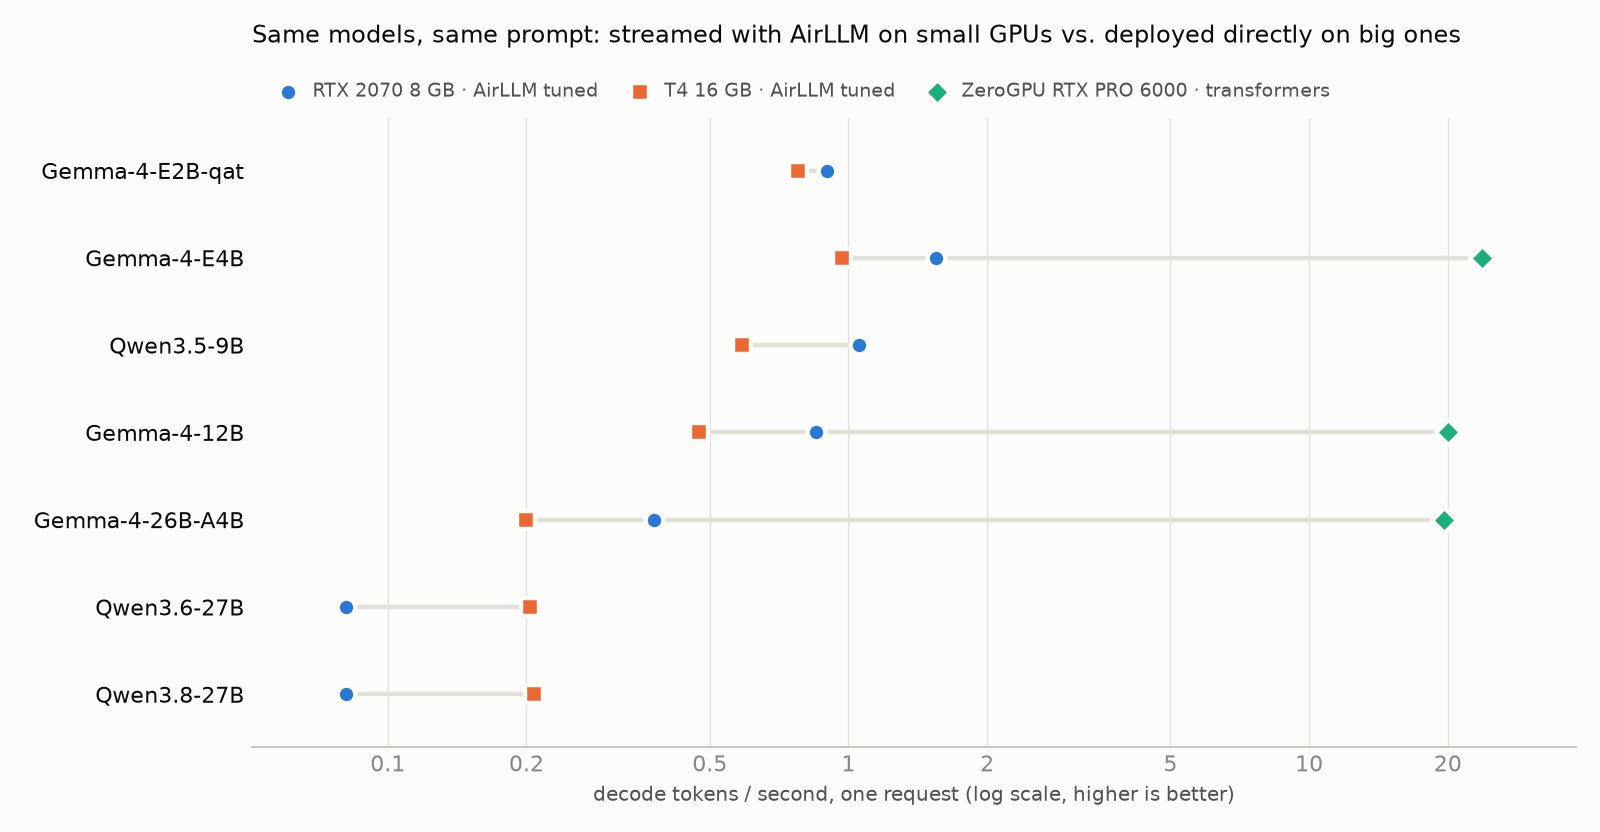
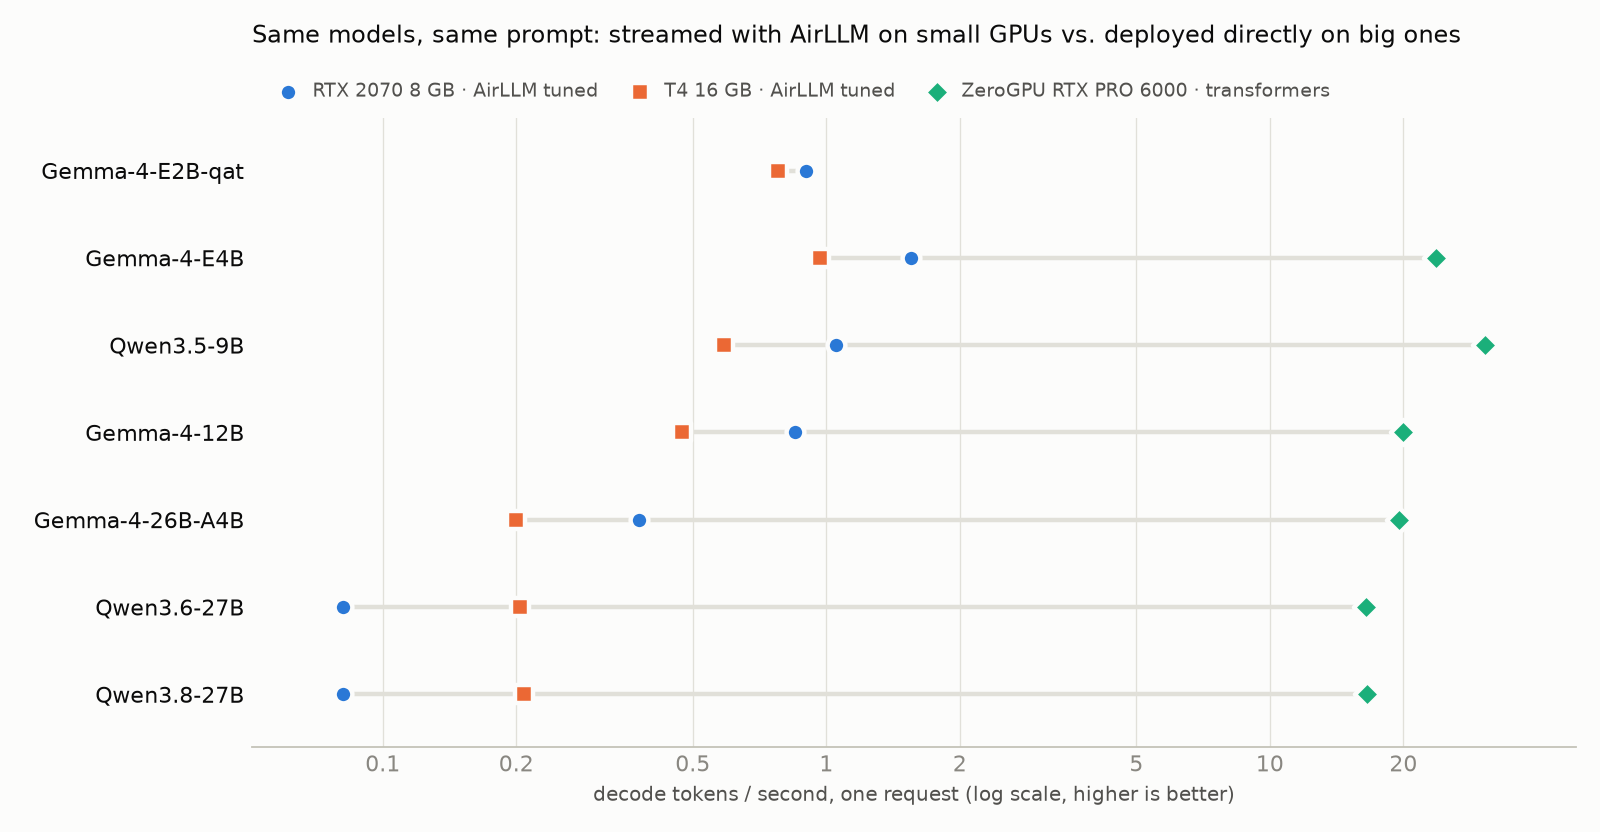
ZeroGPU results for all models; README: big-GPU section, chart, method, reproduce
ZeroGPU (RTX PRO 6000 Blackwell, plain transformers bf16): 16.5-30.6 tok/s single stream,
15-200x tuned AirLLM on the 8-16 GB GPUs. Gemma-4-E2B-qat does not load in transformers 5.23.

diff --git a/scripts/report.py b/scripts/report.py
@@ -174,9 +174,11 @@ def direct_table(rows):
 
 
 def env_line_direct(rows):
-    e = next((r["env"] for r in rows if r.get("env", {}).get("gpu")), {})
+    envs = [r["env"] for r in rows if r.get("env", {}).get("gpu_vram_gb")]
+    e = envs[0] if envs else {}
+    gpus = " / ".join(dict.fromkeys(f"{x['gpu']} ({x['gpu_vram_gb']} GB)" for x in envs))
     eng = f"vllm {e['vllm']} · " if e.get("vllm") else ""
-    return (f"{e.get('gpu', '?')} ({e.get('gpu_vram_gb', '?')} GB, sm_{str(e.get('gpu_cc', '?')).replace('.', '')}) · "
+    return (f"{gpus or '?'}, sm_{str(e.get('gpu_cc', '?')).replace('.', '')} · "
             f"{e.get('cpu', '?')} · {eng}torch {e.get('torch')} (CUDA {e.get('cuda_runtime')}) · transformers {e.get('transformers')}")
 
 

diff --git a/README.md b/README.md
@@ -1,7 +1,9 @@
 # AirLLM benchmarks: Gemma 4 and Qwen 3.x on small GPUs
 
 Can [AirLLM](https://github.com/lyogavin/airllm) (v4.0.0, Sept 2026) run current open models on an
-**8 GB laptop GPU** (RTX 2070 Max-Q) and on a **free Kaggle T4**, and how fast?
+**8 GB laptop GPU** (RTX 2070 Max-Q) and on a **free Kaggle T4**, and how fast? And how does that
+compare with simply deploying the same models on a GPU big enough to hold them
+([free Hugging Face ZeroGPU](#bigger-gpus-deploy-directly); A100 / H100 with vLLM pending)?
 
 Models: `google/gemma-4-E2B-it-qat-mobile-ct`, `google/gemma-4-E4B-it`, `Qwen/Qwen3.5-9B`,
 `google/gemma-4-12B-it`, `google/gemma-4-26B-A4B-it`, `Qwen/Qwen3.6-27B`, `Qwen/Qwen3.8-27B`.
@@ -21,6 +23,10 @@ Models: `google/gemma-4-E2B-it-qat-mobile-ct`, `google/gemma-4-E4B-it`, `Qwen/Qw
 * Even tuned, AirLLM streams the **whole model (≈ 15 GB for a 4-bit 27B) for every token**, so it
   is a way to *run* a model that does not fit in VRAM, not a way to chat with it interactively.
   The MoE model (26B-A4B) gets no benefit from sparsity: all 128 experts are streamed per layer.
+* **On a GPU that holds the model, deploy it directly.** On a free Hugging Face ZeroGPU slice
+  (RTX PRO 6000 Blackwell, 48 / 96 GB) plain transformers decodes the same models at **16–31 tok/s**,
+  15–200× faster than tuned AirLLM on the 8–16 GB GPUs, with 0.05–0.11 s to the first token.
+  vLLM on A100 / H100 is prepared but not run yet ([Bigger GPUs](#bigger-gpus-deploy-directly)).
 
 ![decode speed](results/speed.png)
 
@@ -88,8 +94,58 @@ whose output is correct (bf16 for Gemma 4, AirLLM 4-bit for Qwen). Full tables: 
 
 **Perspective.** E2B/E4B/9B/12B fit entirely in 8 GB of VRAM at 4-bit, so a normal runtime (e.g.
 transformers + bitsandbytes or llama.cpp) would run them one to two orders of magnitude faster than
-any AirLLM configuration here. That is a reasoned expectation, not something we measured. AirLLM is
+any AirLLM configuration here. That is a reasoned expectation, not something we measured on the 8 GB
+GPU; the big-GPU runs below show the size of the gap when the whole model fits. AirLLM is
 worth it for the models that do *not* fit: the 26–27B models ran with ≈ 4 GB of VRAM.
+
+## Bigger GPUs: deploy directly
+
+When the model fits in VRAM there is nothing to stream, so AirLLM is the wrong tool. To put the
+small-GPU numbers in perspective, the same models, prompt and greedy decoding were run with the
+whole model on one big GPU:
+
+* **Hugging Face ZeroGPU** (free account, private Space built from `spaces/zerogpu/`): an NVIDIA
+  RTX PRO 6000 Blackwell, as a 48 GB MIG half (`large`) or, for the 26–27B models, the full 96 GB
+  card (`xlarge`, 2× quota). ZeroGPU runs PyTorch inside a Gradio Space and cannot host vLLM, so
+  this is plain transformers 5.23 `generate()` in bf16: eager, dynamic KV cache, flash-linear-attention
+  kernels for Qwen's Gated DeltaNet layers.
+* **A100 / H100 with vLLM 0.34** (`bench/run_direct.py --engine vllm`, `notebooks/direct_vllm.ipynb`
+  for a Lightning AI Studio): bf16, or on-the-fly fp8 where bf16 does not fit (26–27B on a 40 GB A100).
+  Prepared, not run yet.
+
+![decode speed by GPU](results/gpus.png)
+
+Single-stream decode speed, tokens/s (small GPUs: AirLLM tuned, warm; big GPUs: whole model on the
+GPU, median of 2 runs of 64 tokens):
+
+<!-- gpus:start -->
+| Model | RTX 2070 8 GB<br>AirLLM tuned | T4 16 GB<br>AirLLM tuned | ZeroGPU RTX PRO 6000<br>transformers bf16 |
+|---|---|---|---|
+| gemma-4-E2B-it-qat-mobile-ct | 0.90 | 0.78 | fails to load |
+| gemma-4-E4B-it | 1.55 | 0.97 | 23.7 |
+| Qwen3.5-9B | 1.05 | 0.59 | 30.6 |
+| gemma-4-12B-it | 0.85 | 0.47 | 20.0 |
+| gemma-4-26B-A4B-it | 0.38 | 0.20 | 19.6 |
+| Qwen3.6-27B | 0.08 | 0.20 | 16.5 |
+| Qwen3.8-27B | 0.08 | 0.21 | 16.6 |
+<!-- gpus:end -->
+
+* **Direct deployment is 15–200× faster than tuned AirLLM.** Qwen3.6-27B decodes at 16.5 tok/s on
+  ZeroGPU vs 0.20 on the T4 and 0.08 on the laptop; Gemma-4-E4B at 23.7 vs 1.55 tok/s. The first
+  token comes after 0.05–0.11 s instead of seconds.
+* **Plain transformers is overhead-bound, not bandwidth-bound, below ≈ 30B.** Decode speed barely
+  depends on size: 23.7 tok/s for the 16 GB E4B, 20.0 for the 24 GB 12B, 16.5 for a 55.6 GB 27B.
+  The 27B reads its weights at ≈ 0.9 TB/s (55.6 GB × 16.5 tok/s, about half the card's bandwidth);
+  the small models spend their ≈ 40–50 ms per token on per-layer kernel launches and Python. The MoE
+  26B-A4B (19.6 tok/s) is therefore no faster than the dense 12B despite only 4B active parameters.
+  An engine with CUDA graphs (vLLM) removes most of that overhead.
+* **ZeroGPU practicalities.** A free account gets 5 GPU-minutes a day and can host two ZeroGPU Spaces
+  (account older than 30 days). This sweep used ≈ 3.8 minutes: the 26–27B runs count double, and each
+  Qwen run's first GPU call included ≈ 25 s of Triton compilation for the DeltaNet kernels. ZeroGPU
+  only intercepts CUDA placement done while the app module is imported, so the Space loads one model
+  per (re)start, chosen with the `BENCH_MODEL` Space variable. Gemma-4-E2B-it-qat-mobile-ct does not
+  load in transformers 5.23: its scalar activation scales do not match the `[1]`-shaped module
+  parameters; only the AirLLM path here (which re-adds them) runs it.
 
 ## How AirLLM works (and why it is slow)
 
@@ -126,6 +182,11 @@ files) and dequantizes on the GPU at load time.
   ≥ 2-D tensors only; `:nogc` = AirLLM's per-layer `clean_memory()` disabled.
 * `bench/run_matrix.py` runs a plan sequentially. It waits for 5 minutes of GPU idleness on the shared
   workstation and deletes each model's files when done. The Kaggle runs use the notebooks in `kaggle/`.
+* `bench/run_direct.py` (big GPUs) loads the whole model on one GPU, warms up, then measures time to
+  first token (a 1-token generation) and decode tok/s over 64 (transformers) or 256 (vLLM) forced
+  tokens (`min_new_tokens` / `ignore_eos`), median of 2–3 runs. vLLM also runs 32 concurrent requests
+  of 256 tokens for aggregate throughput. Download and start-up (load, compile, CUDA graphs) are timed
+  separately. The ZeroGPU Space (`spaces/zerogpu/app.py`) wraps the same functions.
 * Text-only: vision / audio towers are not loaded for any model. Qwen's stock class would keep its
   vision tower resident on the GPU; `--stock` runs it unmodified.
 
@@ -255,6 +316,20 @@ I/O breakdown (cold run):
 | Qwen3.8-27B | bf16 | 53.79 | 30.68 s | 1.75 | 8.40 s | on |
 | Qwen3.8-27B | NF4, matrices only + no per-layer gc | 15.13 | 11.46 s | 1.32 | 0.21 s | off |
 
+#### zerogpu-rtxpro6000 (direct, no AirLLM)
+
+NVIDIA RTX PRO 6000 Blackwell Server Edition MIG 2g.48gb (50.87 GB) / NVIDIA RTX PRO 6000 Blackwell Server Edition MIG 4g.96gb (101.98 GB), sm_120 · Intel(R) Xeon(R) Platinum 8559C · torch 2.11.0 (CUDA 13.0) · transformers 5.23.0
+
+| Model | Engine, weights | Checkpoint | Download | Start-up | TTFT | Decode tok/s (1 stream) | Batch tok/s (32 streams) | Weights / KV cache in VRAM | Output (first words) |
+|---|---|---|---|---|---|---|---|---|---|
+| gemma-4-E2B-it-qat-mobile-ct | transformers (eager), bf16 | 2.7 GB | – | – | – | – | – | – | **failed** in `load`: RuntimeError: You set `ignore_mismatched_sizes` to `False`, thus raising an error. (transformers 5.23 compress |
+| gemma-4-E4B-it | transformers (eager), bf16 | 16.0 GB | 18 s | 8 s | 0.047 s | **23.7** | – | 15.9 GB peak (no pre-allocated cache) | A CPU cache is a small, extremely fast memory located close to… |
+| Qwen3.5-9B | transformers (eager), bf16 | 19.3 GB | 22 s | 6 s | 0.065 s | **30.6** | – | 18.9 GB peak (no pre-allocated cache) | A CPU cache is a small, high-speed memory layer situated between the… |
+| gemma-4-12B-it | transformers (eager), bf16 | 23.9 GB | 23 s | 5 s | 0.062 s | **20.0** | – | 24.1 GB peak (no pre-allocated cache) | A CPU cache is a small, high-speed memory buffer located directly on… |
+| gemma-4-26B-A4B-it | transformers (eager), bf16 | 51.6 GB | 42 s | 6 s | 0.111 s | **19.6** | – | 51.9 GB peak (no pre-allocated cache) | A CPU cache acts as a high-speed buffer between the fast processor… |
+| Qwen3.6-27B | transformers (eager), bf16 | 55.6 GB | 78 s | 7 s | 0.112 s | **16.5** | – | 54.9 GB peak (no pre-allocated cache) | A CPU cache is a small, high-speed memory located close to the… |
+| Qwen3.8-27B | transformers (eager), bf16 | 55.6 GB | 79 s | 7 s | 0.109 s | **16.6** | – | 54.9 GB peak (no pre-allocated cache) | A CPU cache is a small, high-speed memory located on or near… |
+
 <!-- results:end -->
 
 ## Reproduce
@@ -266,6 +341,16 @@ uv venv .venv --python 3.12 && uv pip install -p .venv/bin/python -r requirement
 .venv/bin/python scripts/report.py --readme && .venv/bin/python scripts/plot.py         # tables + chart
 ```
 
+Big GPUs (no AirLLM):
+
+```bash
+python bench/run_direct.py --model Qwen3.6-27B --engine vllm            # one model, vLLM
+python bench/run_direct_matrix.py --out-dir results/lightning-h100 --cleanup   # all, bf16 or fp8 to fit
+python scripts/make_direct_notebook.py          # notebooks/direct_vllm.ipynb for a Lightning AI Studio
+python scripts/make_zerogpu_space.py            # build/zerogpu-space/: upload to a ZeroGPU Gradio Space
+.venv/bin/python scripts/plot_gpus.py           # results/gpus.png
+```
+
 Kaggle: `python scripts/make_kaggle_notebook.py --plan kaggle2 --out kaggle/run.ipynb`, import it on
 Kaggle with "Save & Run All" + GPU T4 and Internet on. The notebook embeds the `bench/` files because the
 repo is private. Results are printed at the end of the log and saved in the notebook output.
@@ -275,7 +360,10 @@ repo is private. Results are printed at the end of the log and saved in the note
 * One prompt, greedy decoding, 16–32 new tokens: this measures throughput, not quality. "Correct"
   means coherent and on-topic, judged by reading the outputs (all are in the JSONs).
 * Kaggle results were transcribed from the notebook log / output viewer into `results/kaggle-t4/`;
-  per-token arrays are omitted there.
+  per-token arrays are omitted there. ZeroGPU results were transcribed from the Space's container log.
+* The big-GPU comparison mixes engines on purpose: each number is what you get from the simplest
+  reasonable deployment on that hardware. ZeroGPU is a MIG slice of shared hardware; its numbers are
+  medians of 2 runs.
 * Kaggle run 1 lost the three > 25B models to the scratch-disk issue. Run 2 re-ran Qwen3.6/3.8-27B
   with AirLLM's own shard streaming and Gemma-4-26B-A4B with the lazy splitter. Stock bf16 for the
   > 25B models was not run on Kaggle, which has no disk room for 50+ GB of bf16 layer files.

diff --git a/results/SUMMARY.md b/results/SUMMARY.md
@@ -2,13 +2,13 @@
 
 | Model | RTX 2070 8 GB<br>AirLLM tuned | T4 16 GB<br>AirLLM tuned | ZeroGPU RTX PRO 6000<br>transformers bf16 |
 |---|---|---|---|
-| gemma-4-E2B-it-qat-mobile-ct | 0.90 | 0.78 | – |
+| gemma-4-E2B-it-qat-mobile-ct | 0.90 | 0.78 | fails to load |
 | gemma-4-E4B-it | 1.55 | 0.97 | 23.7 |
-| Qwen3.5-9B | 1.05 | 0.59 | – |
+| Qwen3.5-9B | 1.05 | 0.59 | 30.6 |
 | gemma-4-12B-it | 0.85 | 0.47 | 20.0 |
 | gemma-4-26B-A4B-it | 0.38 | 0.20 | 19.6 |
-| Qwen3.6-27B | 0.08 | 0.20 | – |
-| Qwen3.8-27B | 0.08 | 0.21 | – |
+| Qwen3.6-27B | 0.08 | 0.20 | 16.5 |
+| Qwen3.8-27B | 0.08 | 0.21 | 16.6 |
 
 ### kaggle-t4
 
@@ -115,11 +115,15 @@ I/O breakdown (cold run):
 
 ### zerogpu-rtxpro6000 (direct, no AirLLM)
 
-NVIDIA RTX PRO 6000 Blackwell Server Edition MIG 2g.48gb (50.87 GB, sm_120) · Intel(R) Xeon(R) Platinum 8559C · torch 2.11.0 (CUDA 13.0) · transformers 5.23.0
+NVIDIA RTX PRO 6000 Blackwell Server Edition MIG 2g.48gb (50.87 GB) / NVIDIA RTX PRO 6000 Blackwell Server Edition MIG 4g.96gb (101.98 GB), sm_120 · Intel(R) Xeon(R) Platinum 8559C · torch 2.11.0 (CUDA 13.0) · transformers 5.23.0
 
 | Model | Engine, weights | Checkpoint | Download | Start-up | TTFT | Decode tok/s (1 stream) | Batch tok/s (32 streams) | Weights / KV cache in VRAM | Output (first words) |
 |---|---|---|---|---|---|---|---|---|---|
+| gemma-4-E2B-it-qat-mobile-ct | transformers (eager), bf16 | 2.7 GB | – | – | – | – | – | – | **failed** in `load`: RuntimeError: You set `ignore_mismatched_sizes` to `False`, thus raising an error. (transformers 5.23 compress |
 | gemma-4-E4B-it | transformers (eager), bf16 | 16.0 GB | 18 s | 8 s | 0.047 s | **23.7** | – | 15.9 GB peak (no pre-allocated cache) | A CPU cache is a small, extremely fast memory located close to… |
+| Qwen3.5-9B | transformers (eager), bf16 | 19.3 GB | 22 s | 6 s | 0.065 s | **30.6** | – | 18.9 GB peak (no pre-allocated cache) | A CPU cache is a small, high-speed memory layer situated between the… |
 | gemma-4-12B-it | transformers (eager), bf16 | 23.9 GB | 23 s | 5 s | 0.062 s | **20.0** | – | 24.1 GB peak (no pre-allocated cache) | A CPU cache is a small, high-speed memory buffer located directly on… |
 | gemma-4-26B-A4B-it | transformers (eager), bf16 | 51.6 GB | 42 s | 6 s | 0.111 s | **19.6** | – | 51.9 GB peak (no pre-allocated cache) | A CPU cache acts as a high-speed buffer between the fast processor… |
+| Qwen3.6-27B | transformers (eager), bf16 | 55.6 GB | 78 s | 7 s | 0.112 s | **16.5** | – | 54.9 GB peak (no pre-allocated cache) | A CPU cache is a small, high-speed memory located close to the… |
+| Qwen3.8-27B | transformers (eager), bf16 | 55.6 GB | 79 s | 7 s | 0.109 s | **16.6** | – | 54.9 GB peak (no pre-allocated cache) | A CPU cache is a small, high-speed memory located on or near… |
 
